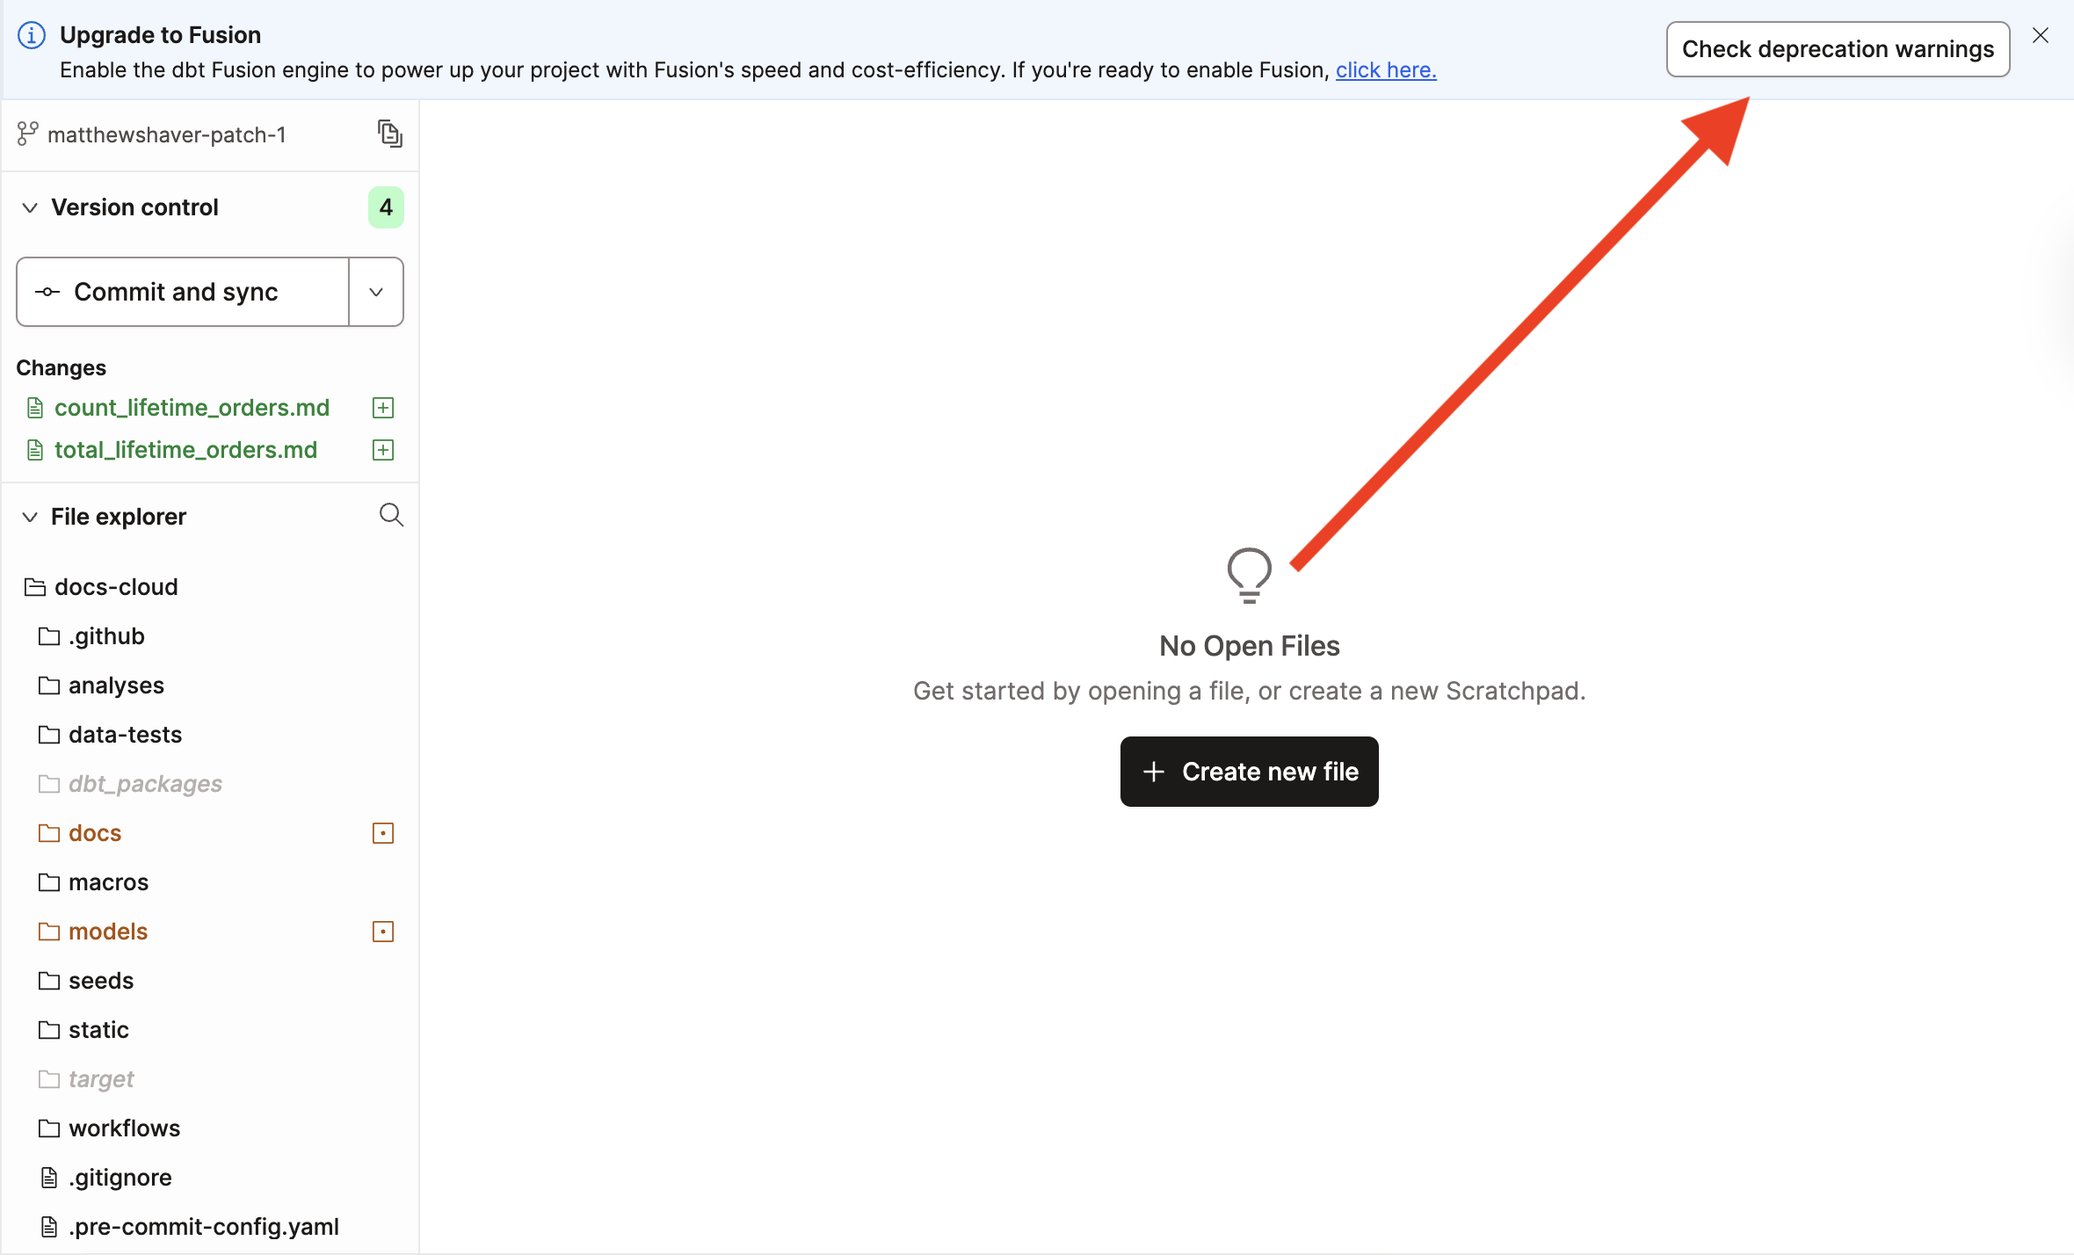
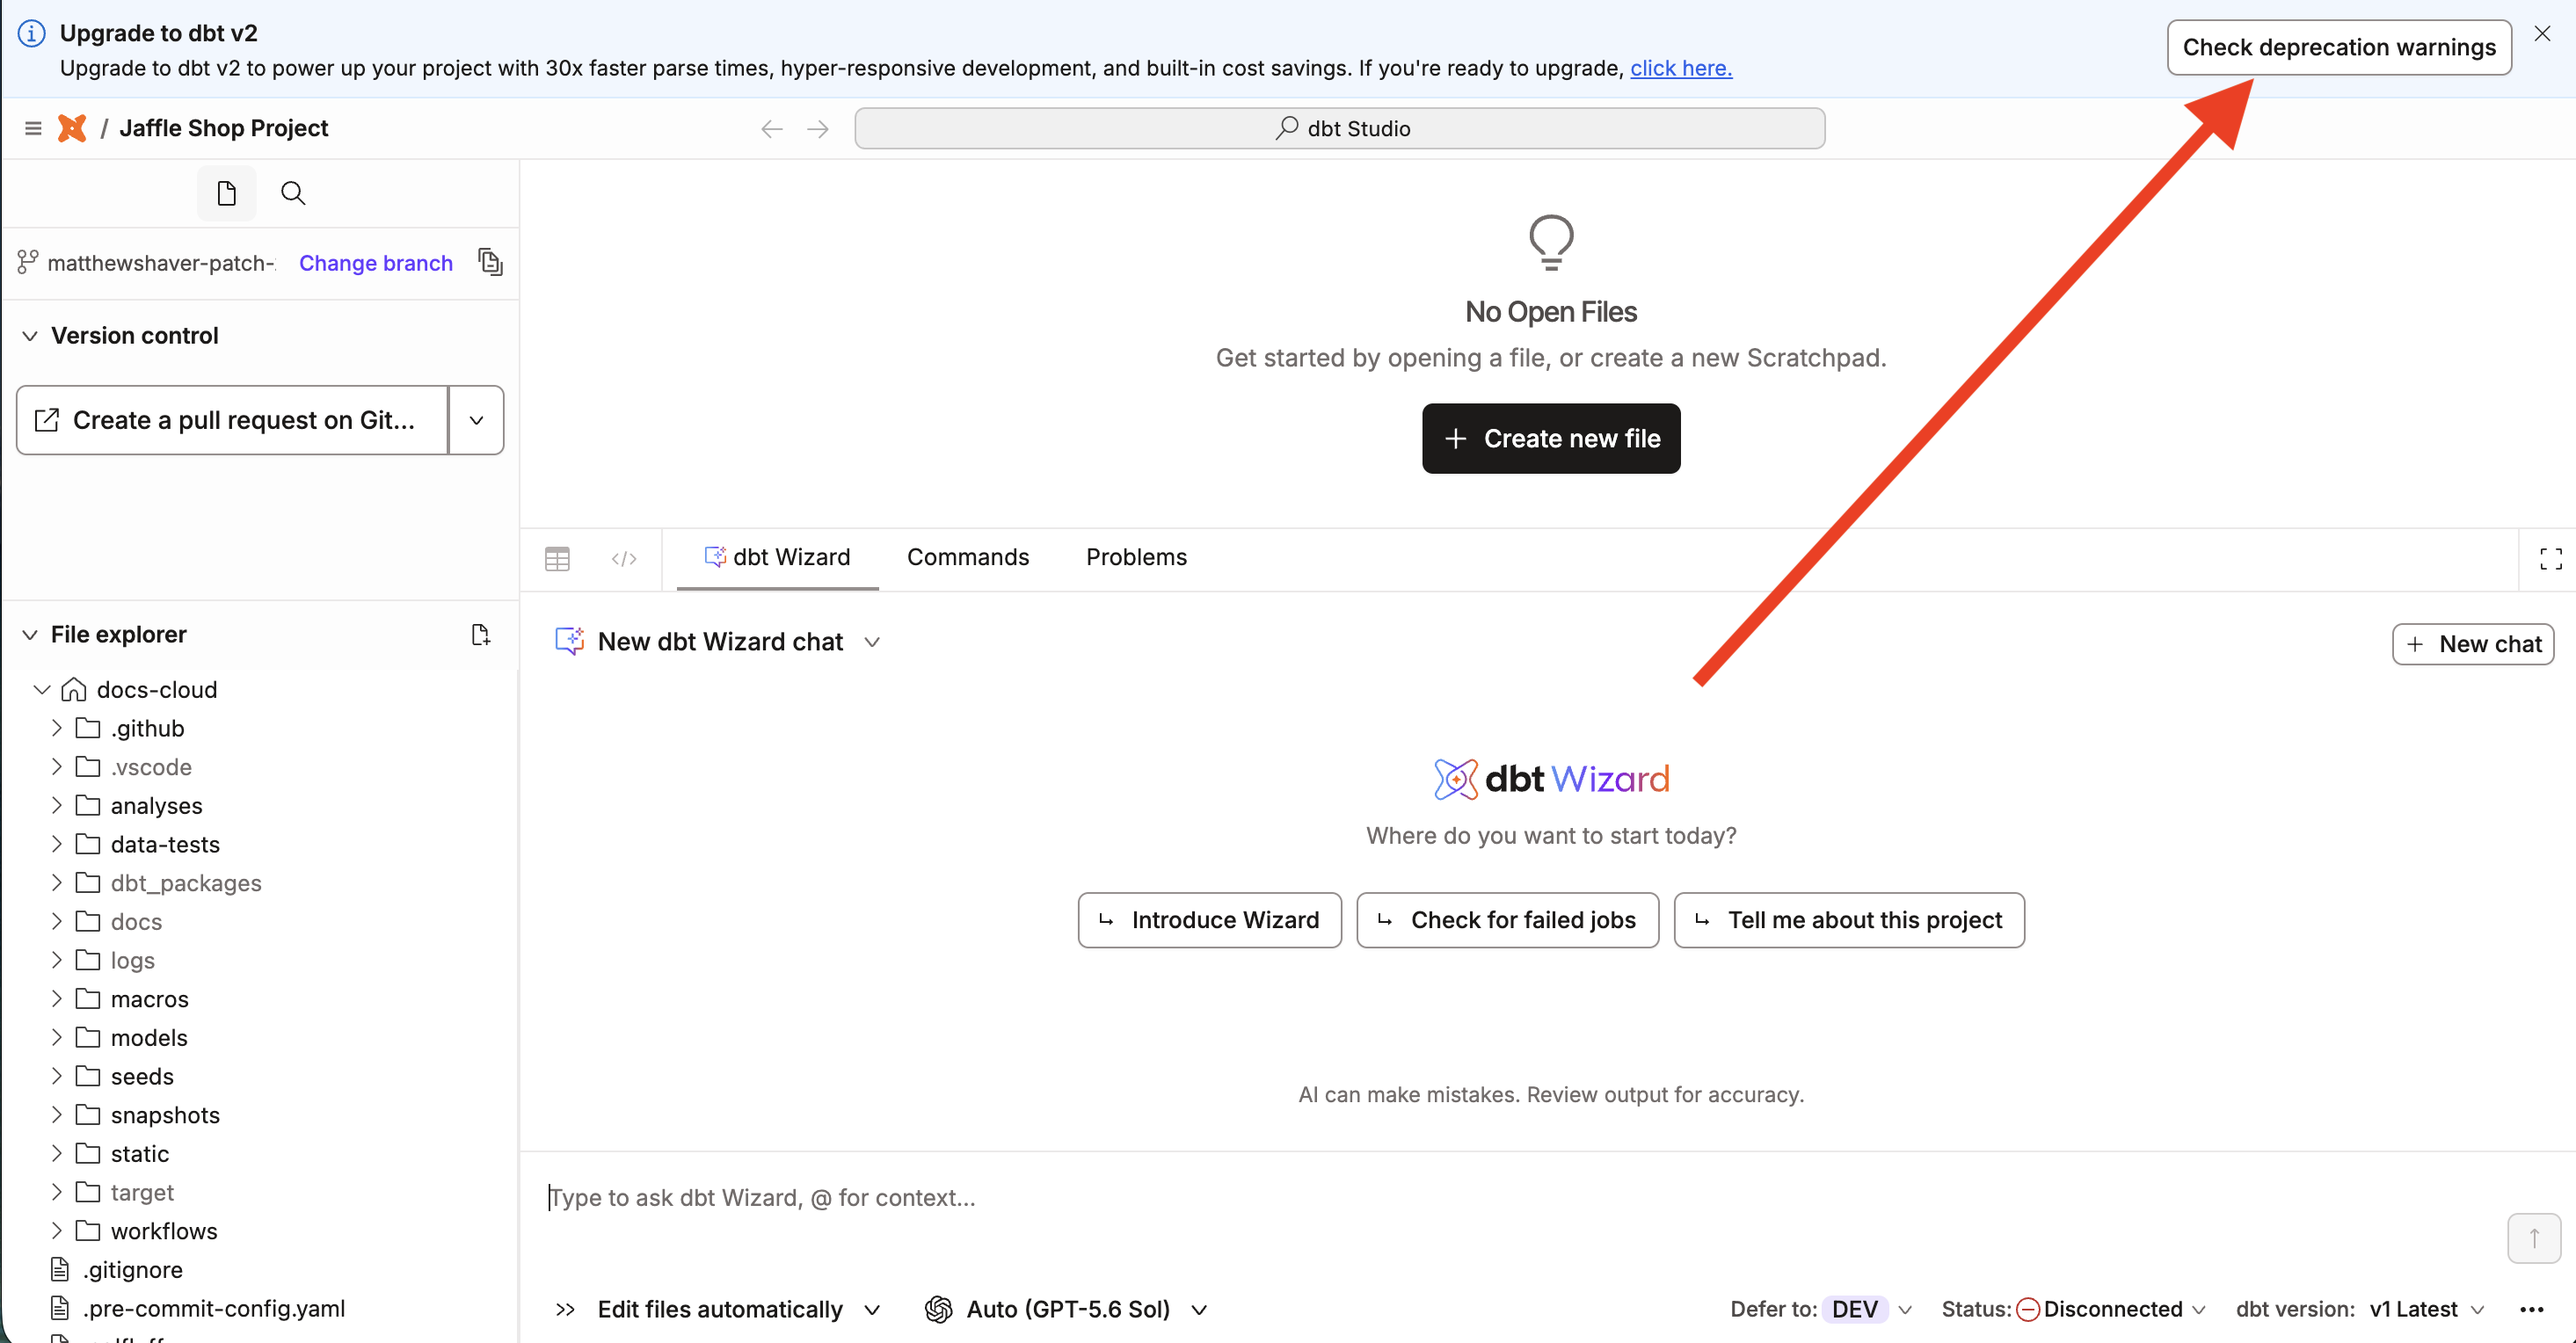
Updating upgrade docs screenshots

diff --git a/website/docs/docs/dbt-versions/upgrade-dbt-platform-version.md b/website/docs/docs/dbt-versions/upgrade-dbt-platform-version.md
@@ -64,7 +64,7 @@ dbt Labs has introduced the new [<Constant name="fusion_engine" />](/docs/introd
 
 When you're ready to upgrade your project(s) to <Constant name="fusion_engine" />, there are some tools available to you in the dbt platform UI to help you get started. The <Constant name="fusion" /> upgrade assistant will step you through the process of preparing and upgrading your projects. 
 
-  <Lightbox src="/img/docs/dbt-platform/platform-configuring-dbt-platform/choosing-dbt-version/fusion-upgrade-gui.png" width="60%" title="The v2 upgrade assistant."/>
+  <Lightbox src="/img/docs/dbt-platform/platform-configuring-dbt-platform/choosing-dbt-version/v2-upgrade-gui.png" width="60%" title="The v2 upgrade assistant."/>
 
 #### Prerequisites
 
@@ -115,13 +115,11 @@ The <Constant name="fusion" /> upgrade workflows helps identify areas of the pro
 #### Upgrade your development environment
 
 To begin the process of upgrading to <Constant name="fusion" /> with the assistant:
-1. From the project homepage or sidebar menu, click the **Start dbt v2 upgrade** or **Get started** button. You will be redirected to the <Constant name="studio_ide" />.
-  <Lightbox src="/img/docs/dbt-platform/platform-configuring-dbt-platform/choosing-dbt-version/start-upgrade.png" width="60%" title="Start the v2 upgrade."/>
+1. From the project homepage, click the **Start dbt v2 upgrade** or **Upgrade** button. You will be redirected to the <Constant name="studio_ide" />.
 2. At the top of the <Constant name="studio_ide" /> click **Check deprecation warnings**. 
   <Lightbox src="/img/docs/dbt-platform/platform-configuring-dbt-platform/choosing-dbt-version/check-deprecations.png" width="60%" title="Begin the process of parsing for deprecation warnings."/>
 3. dbt parses your project for the deprecations and presents a list of all deprecation warnings along with the option to **Autofix warnings**. Autofixing attempts to correct all syntax errors automatically. See [Fix deprecation warnings](/docs/platform/studio-ide/autofix-deprecations) for more information. 
-  <Lightbox src="/img/docs/dbt-platform/platform-configuring-dbt-platform/choosing-dbt-version/check-deprecations.png" width="60%" title="Begin the process of parsing for deprecation warnings."/>
-4. Once the deprecation warnings have been resolved, click the **Enable <Constant name="fusion" />** button. This upgrades your development environment to <Constant name="fusion" />!
+4. Once the deprecation warnings have been resolved, click the **Upgrade to <Constant name="fusion" />** button. This upgrades your development environment to <Constant name="fusion" />!
 
   <Lightbox src="/img/docs/dbt-platform/platform-configuring-dbt-platform/choosing-dbt-version/autofix-success.png" width="60%" title="You're now ready to upgrade to v2 in your development environment!"/>
 
